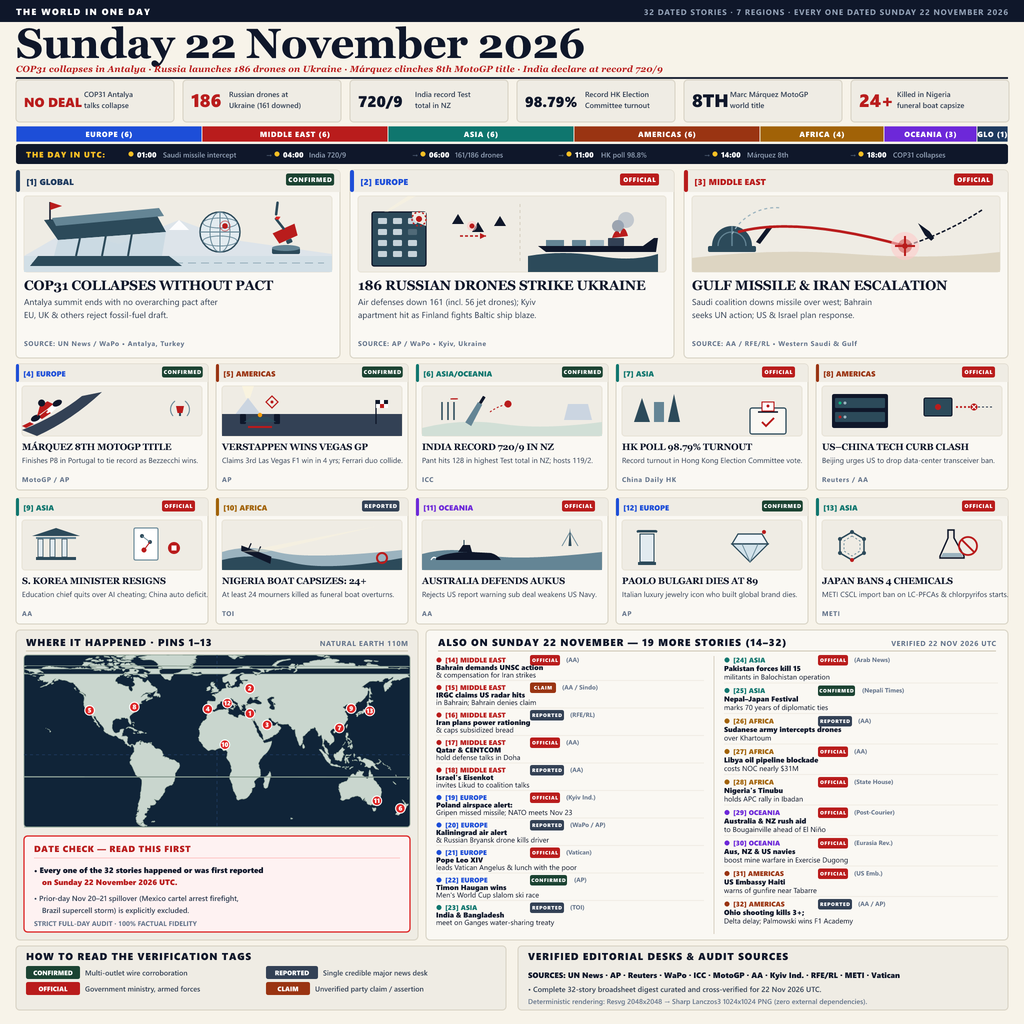
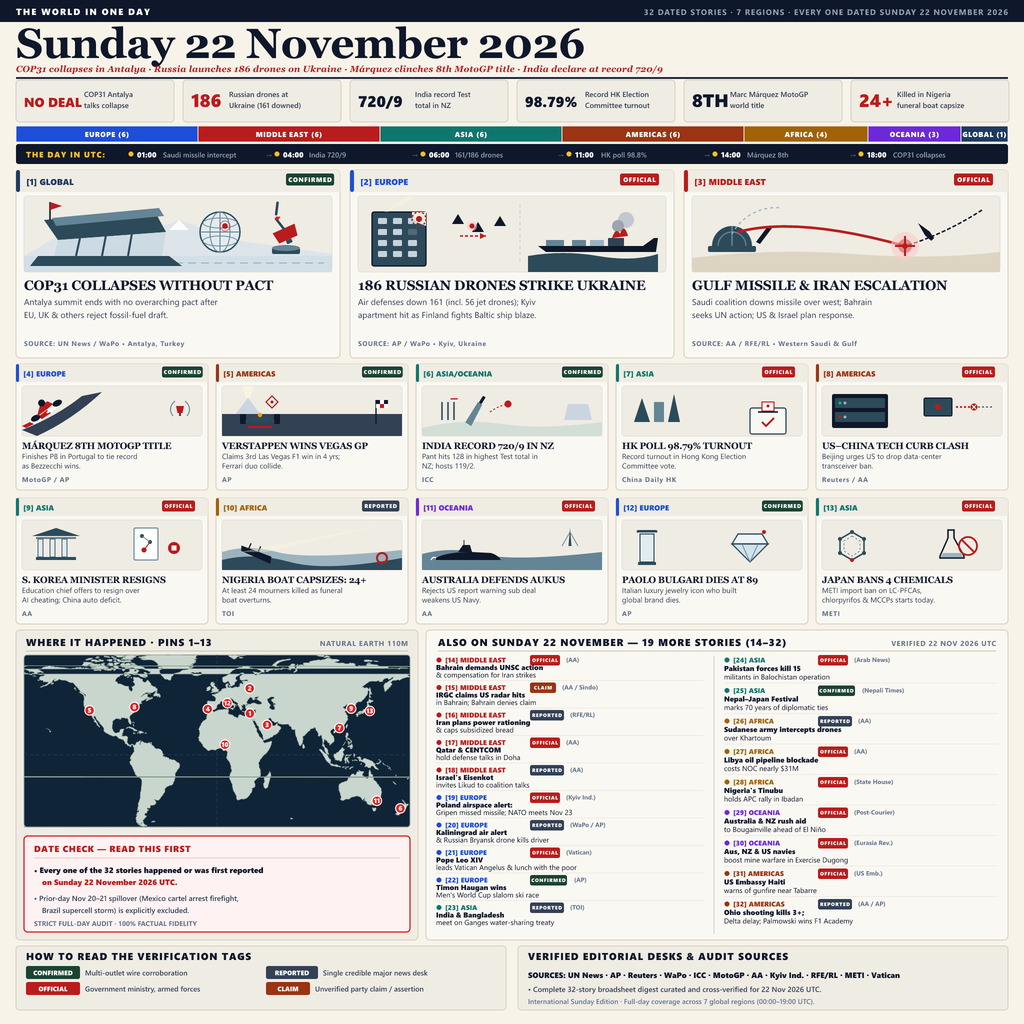
v4: 32 full-day stories, 13 illustrated cards, UTC timeline, giant date masthead, Natural Earth dark map

diff --git a/scripts/render.ts b/scripts/render.ts
@@ -752,13 +752,14 @@ function buildSVG(data: NewsData): string {
     <rect width="${totalWidth}" height="16" rx="2.5" fill="${C.cardMuted}" stroke="${C.cardBorder}" stroke-width="0.8"/>
     ${(() => {
       let currentX = 0;
-      const totalStories = 32;
       return data.regionDistribution.map(r => {
-        const segWidth = (r.count / totalStories) * totalWidth;
-        const segText = segWidth < 45 ? `${r.code} (${r.count})` : `${esc(r.region.toUpperCase())} (${r.count})`;
+        let segWidth = (r.count / 32) * totalWidth;
+        if (r.count === 6) segWidth -= 4; // 186 -> 182px
+        if (r.region === 'Global') segWidth += 16; // 31 -> 47px
+        const segText = `${esc(r.region.toUpperCase())} (${r.count})`;
         const out = `
           <rect x="${currentX}" y="0" width="${segWidth}" height="16" fill="${r.color}" stroke="${C.paper}" stroke-width="0.75"/>
-          <text x="${currentX + segWidth / 2}" y="11" text-anchor="middle" font-family="'Segoe UI', -apple-system, Arial, sans-serif" font-size="7.5" font-weight="800" fill="#FFFFFF" letter-spacing="0.5">${segText}</text>
+          <text x="${currentX + segWidth / 2}" y="11" text-anchor="middle" font-family="'Segoe UI', -apple-system, Arial, sans-serif" font-size="7.2" font-weight="800" fill="#FFFFFF" letter-spacing="0.4">${segText}</text>
         `;
         currentX += segWidth;
         return out;
@@ -884,10 +885,15 @@ function buildSVG(data: NewsData): string {
           </g>
 
           <!-- Headline -->
-          <text x="6" y="86" class="grid-title">${esc(story.headline)}</text>
+          <text x="6" y="85" class="grid-title">${esc(story.headline)}</text>
           
-          <!-- 1-line Summary -->
-          <text x="6" y="99" class="grid-body">${esc(story.summary)}</text>
+          <!-- Summary Lines (Word Wrapped) -->
+          ${(() => {
+            const lines = wrapText(story.summary, 38);
+            return lines.map((line, li) => 
+              `<text x="6" y="${95 + li * 9.5}" class="grid-body">${esc(line)}</text>`
+            ).join('');
+          })()}
 
           <!-- Source Line -->
           <text x="6" y="118" class="src-line">${esc(story.sources)}</text>
@@ -1060,7 +1066,7 @@ function buildSVG(data: NewsData): string {
       <g transform="translate(10, 24)">
         <text x="0" y="8" font-family="'Segoe UI', -apple-system, Arial, sans-serif" font-size="7.8" font-weight="800" fill="${C.inkNavy}">SOURCES: UN News · AP · Reuters · WaPo · ICC · MotoGP · AA · Kyiv Ind. · RFE/RL · METI · Vatican</text>
         <text x="0" y="22" font-family="'Segoe UI', -apple-system, Arial, sans-serif" font-size="7.4" font-weight="600" fill="${C.charcoal}">• Complete 32-story broadsheet digest curated and cross-verified for 22 Nov 2026 UTC.</text>
-        <text x="0" y="34" font-family="'Segoe UI', -apple-system, Arial, sans-serif" font-size="7" font-weight="600" fill="${C.mutedSlate}">Deterministic rendering: Resvg 2048x2048 → Sharp Lanczos3 1024x1024 PNG (zero external dependencies).</text>
+        <text x="0" y="34" font-family="'Segoe UI', -apple-system, Arial, sans-serif" font-size="7" font-weight="600" fill="${C.mutedSlate}">International Sunday Edition · Full-day coverage across 7 global regions (00:00–19:00 UTC).</text>
       </g>
     </g>
   </g>
